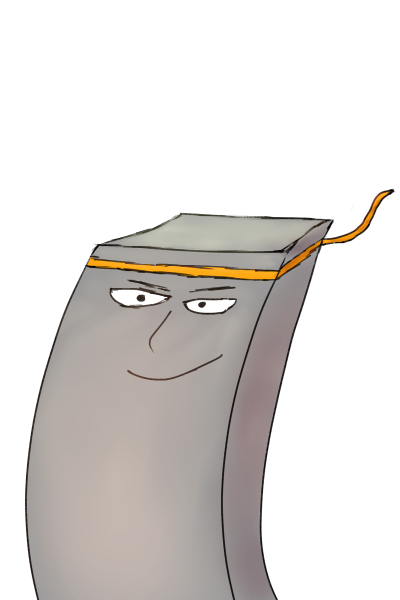
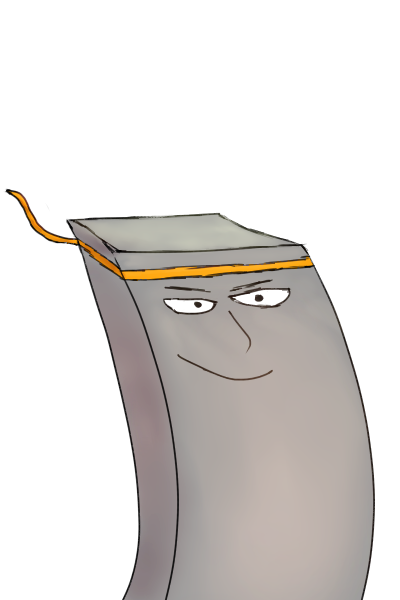
Add portrait raise / lower + invert right portrait

diff --git a/Assets/Generic/Logic/UI/CanvasGroupHider.cs b/Assets/Generic/Logic/UI/CanvasGroupHider.cs
@@ -4,46 +4,24 @@ using UnityEngine.Assertions;
 
 public class CanvasGroupHider : MonoBehaviour
 {
-    public void Show() => Hiding = false;
-    public void Hide() => Hiding = true;
+    public IEnumerator ShowAsync() => Animator.On(Duration);
+    public IEnumerator HideAsync() => Animator.Off(Duration);
 
-    public IEnumerator ShowAsync()
-    {
-        if (!Hiding)
-            yield break;
-
-        Show();
-        DurationLeft = Duration;
-
-        while (DurationLeft > 0.0f)
-            yield return null;
-    }
-
-    public IEnumerator HideAsync()
-    {
-        if (Hiding)
-            yield break;
-
-        Hide();
-        DurationLeft = Duration;
-
-        while (DurationLeft > 0.0f)
-            yield return null;
-    }
-
-    public float Duration;
-    float DurationLeft;
-
-    bool Hiding;
+    [SerializeField]
+    float Duration;
 
     Vector2 ShowPosition;
     Vector2 HidePosition;
+
+    OnOffAnimator Animator;
 
     RectTransform RectTransform;
     CanvasGroup CanvasGroup;
 
     void Awake()
     {
+        Animator = new OnOffAnimator();
+
         RectTransform = GetComponent<RectTransform>();
         Assert.IsNotNull(RectTransform);
 
@@ -52,19 +30,11 @@ public class CanvasGroupHider : MonoBehaviour
 
         ShowPosition = RectTransform.anchoredPosition;
         HidePosition = UIUtils.OffscreenPosition(RectTransform);
-
-        Hide();
     }
 
     void Update()
     {
-        DurationLeft -= Time.deltaTime;
-
-        var percent = Mathf.InverseLerp(Duration, 0.0f, DurationLeft);
-        if (Hiding)
-            percent = 1 - percent;
-
-        RectTransform.anchoredPosition = Vector2.Lerp(HidePosition, ShowPosition, percent);
-        CanvasGroup.alpha = Mathf.Lerp(0.0f, 1.0f, percent);
+        RectTransform.anchoredPosition = Vector2.Lerp(HidePosition, ShowPosition, Animator.Percent);
+        CanvasGroup.alpha = Mathf.Lerp(0.0f, 1.0f, Animator.Percent);
     }
 }

diff --git a/Assets/TestScenes/Dialogue/DialogueSystem.cs b/Assets/TestScenes/Dialogue/DialogueSystem.cs
@@ -24,20 +24,23 @@ public class DialogueSystem : MonoBehaviour, ISubmitHandler
         return Say(text);
     }
 
-    public IEnumerator Say(DialogueCharacter character, string text) => this.Par(SetPortraitLeft(character.Image),
-                                                                                 Say(character.name, text));
+    public IEnumerator Say(DialogueCharacter character,
+                           string text) => this.Par(PortraitLeft.RaiseAsync(), PortraitRight.LowerAsync(),
+                                                    SetPortraitLeft(character.Image), Say(character.name, text));
 
-    public IEnumerator SayRight(DialogueCharacter character, string text) => this.Par(SetPortraitRight(character.Image),
-                                                                                      Say(character.name, text));
+    public IEnumerator SayRight(DialogueCharacter character,
+                                string text) => this.Par(PortraitLeft.LowerAsync(), PortraitRight.RaiseAsync(),
+                                                         SetPortraitRight(character.Image), Say(character.name, text));
 
     public IEnumerator Tell(string text)
     {
         Box.HideName();
-        return Say(text);
+        yield return this.Par(PortraitLeft.LowerAsync(), PortraitRight.LowerAsync());
+        yield return Say(text);
     }
 
-    public IEnumerator SetPortraitLeft(Sprite image) => PortraitLeft.Set(image);
-    public IEnumerator SetPortraitRight(Sprite image) => PortraitRight.Set(image);
+    IEnumerator SetPortraitLeft(Sprite image) => PortraitLeft.Set(image);
+    IEnumerator SetPortraitRight(Sprite image) => PortraitRight.Set(image);
 
     public IEnumerator Hide() => this.Par(Box.HideAsync(), PortraitLeft.HideAsync(), PortraitRight.HideAsync());
 

diff --git a/Assets/Generic/Logic/Utils/Coroutine.cs b/Assets/Generic/Logic/Utils/Coroutine.cs
@@ -2,6 +2,57 @@ using System.Collections;
 using System.Collections.Generic;
 using UnityEngine;
 
+class Timer
+{
+    public void Start(float duration)
+    {
+        StartTime = Time.time;
+        EndTime = StartTime + duration;
+    }
+
+    public bool IsDone() => Time.time > EndTime;
+    public IEnumerator Wait() => new WaitUntil(IsDone);
+
+    public float Percent => Mathf.InverseLerp(StartTime, EndTime, Time.time);
+
+    public float StartTime { get; private set; }
+    public float EndTime { get; private set; } = 0.001f;
+}
+
+class OnOffAnimator
+{
+    public IEnumerator On(float duration = 0.0f) => SwitchTo(true, duration);
+    public IEnumerator Off(float duration = 0.0f) => SwitchTo(false, duration);
+    public IEnumerator SwitchTo(bool newState, float duration)
+    {
+        if (IsOn == newState)
+            yield break;
+
+        IsOn = newState;
+        Timer.Start(duration);
+        yield return Timer.Wait();
+    }
+
+    public float Percent
+    {
+        get {
+            var percent = Timer.Percent;
+            if (!IsOn)
+                return 1 - percent;
+            else
+                return percent;
+        }
+    }
+
+    public OnOffAnimator()
+    {
+        Timer = new Timer();
+    }
+
+    bool IsOn;
+    Timer Timer;
+}
+
 // Unity's coroutine API is provided through MonoBehaviour. We therefore add the
 // following helper functions as extensions method to MonoBehaviour.
 static class MonoBehaviourExtensions

diff --git a/Assets/TestScenes/Dialogue/DialoguePortrait.cs b/Assets/TestScenes/Dialogue/DialoguePortrait.cs
@@ -14,20 +14,39 @@ public class DialoguePortrait : MonoBehaviour
         yield return ShowAsync();
     }
 
-    public void Show() => Hider.Show();
-    public void Hide() => Hider.Hide();
     public IEnumerator ShowAsync() => Hider.ShowAsync();
     public IEnumerator HideAsync() => Hider.HideAsync();
     CanvasGroupHider Hider;
+
+    public IEnumerator RaiseAsync() => RaiseAnimator.On(RaiseDuration);
+    public IEnumerator LowerAsync() => RaiseAnimator.Off(RaiseDuration);
+
+    [SerializeField]
+    float RaiseDuration;
+
+    [SerializeField]
+    Color RaiseTint;
+
+    [SerializeField]
+    Color LowerTint;
+
+    OnOffAnimator RaiseAnimator;
 
     Image Image;
 
     void Awake()
     {
-        Image = GetComponent<Image>();
-        Assert.IsNotNull(Image);
+        RaiseAnimator = new OnOffAnimator();
 
         Hider = GetComponent<CanvasGroupHider>();
         Assert.IsNotNull(Hider);
+
+        Image = GetComponentInChildren<Image>();
+        Assert.IsNotNull(Image);
+    }
+
+    void Update()
+    {
+        Image.color = Color.Lerp(LowerTint, RaiseTint, RaiseAnimator.Percent);
     }
 }

diff --git a/Assets/TestScenes/Dialogue/DialogueBox.cs b/Assets/TestScenes/Dialogue/DialogueBox.cs
@@ -1,5 +1,5 @@
-using UnityEngine;
 using System.Collections;
+using UnityEngine;
 using UnityEngine.Assertions;
 using UnityEngine.UI;
 
@@ -22,8 +22,6 @@ public class DialogueBox : MonoBehaviour
     [SerializeField]
     Text Message;
 
-    public void Show() => Hider.Show();
-    public void Hide() => Hider.Hide();
     public IEnumerator ShowAsync() => Hider.ShowAsync();
     public IEnumerator HideAsync() => Hider.HideAsync();
     CanvasGroupHider Hider;
